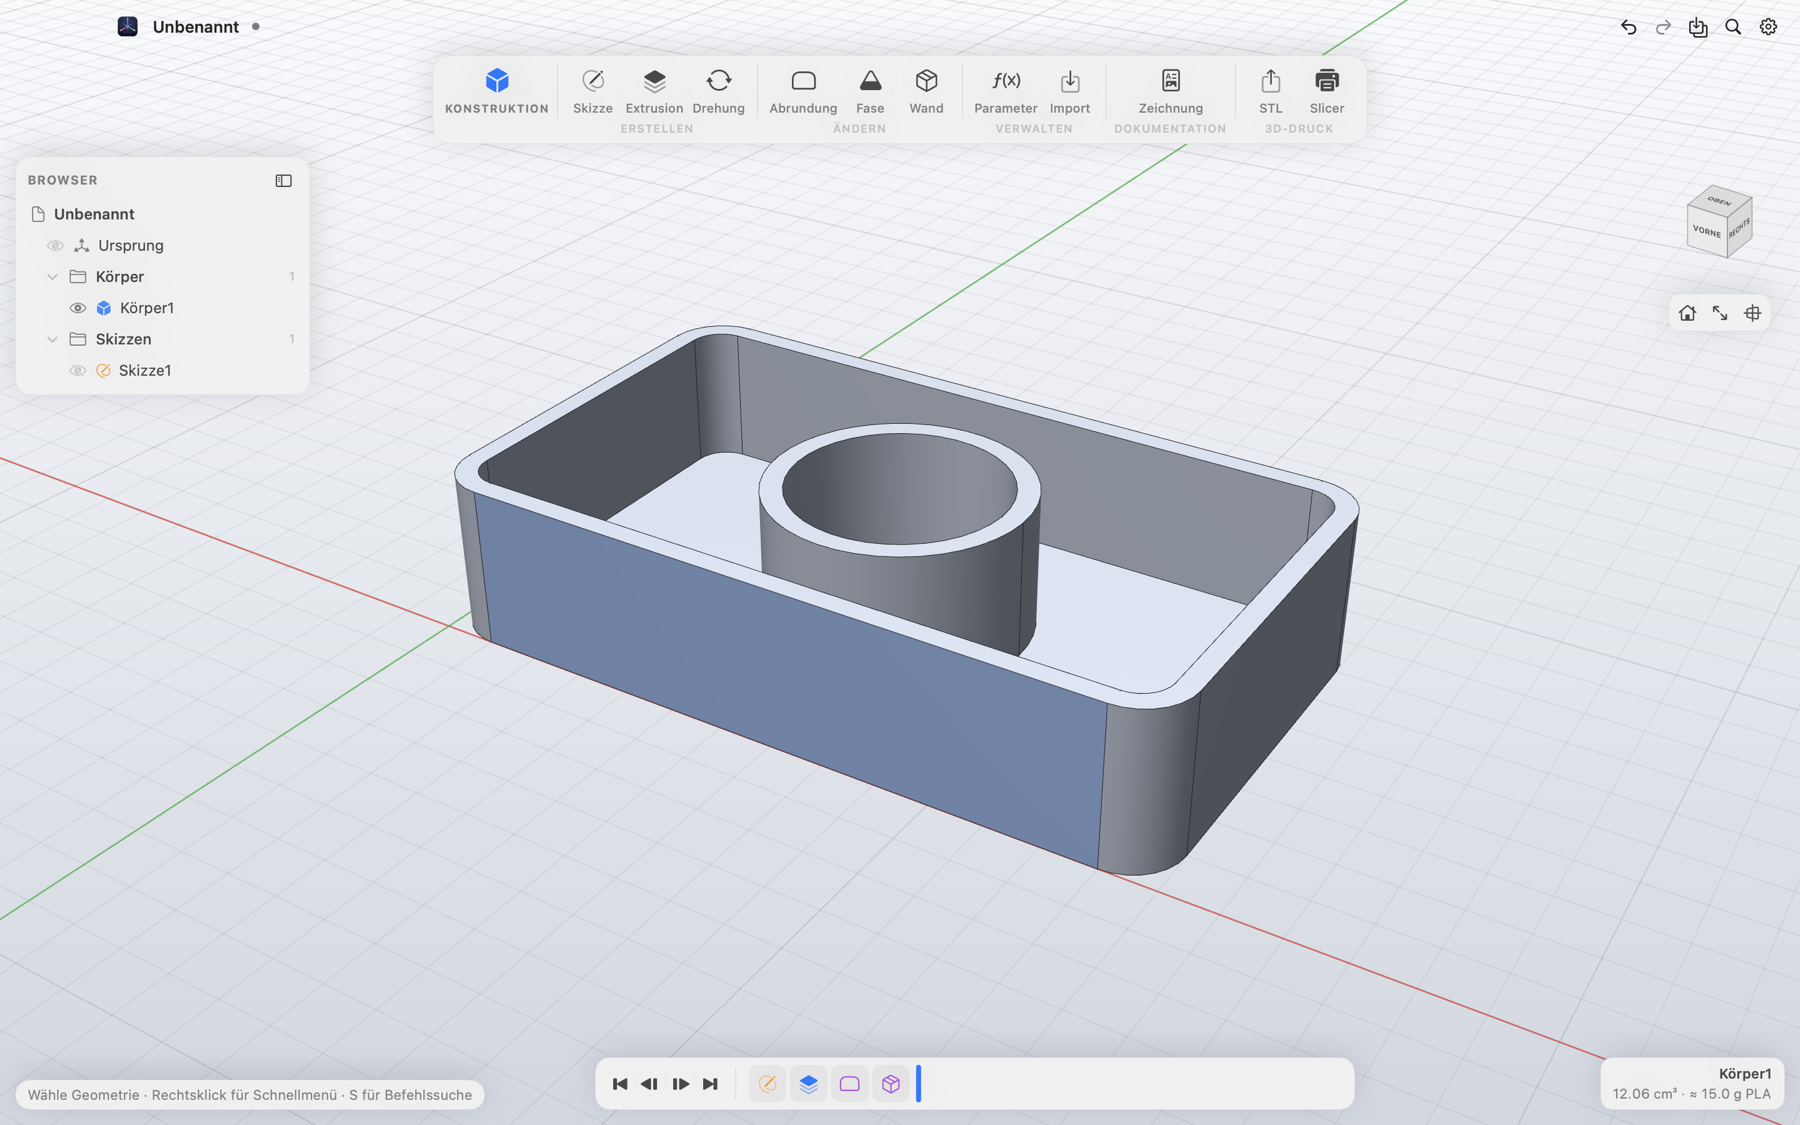
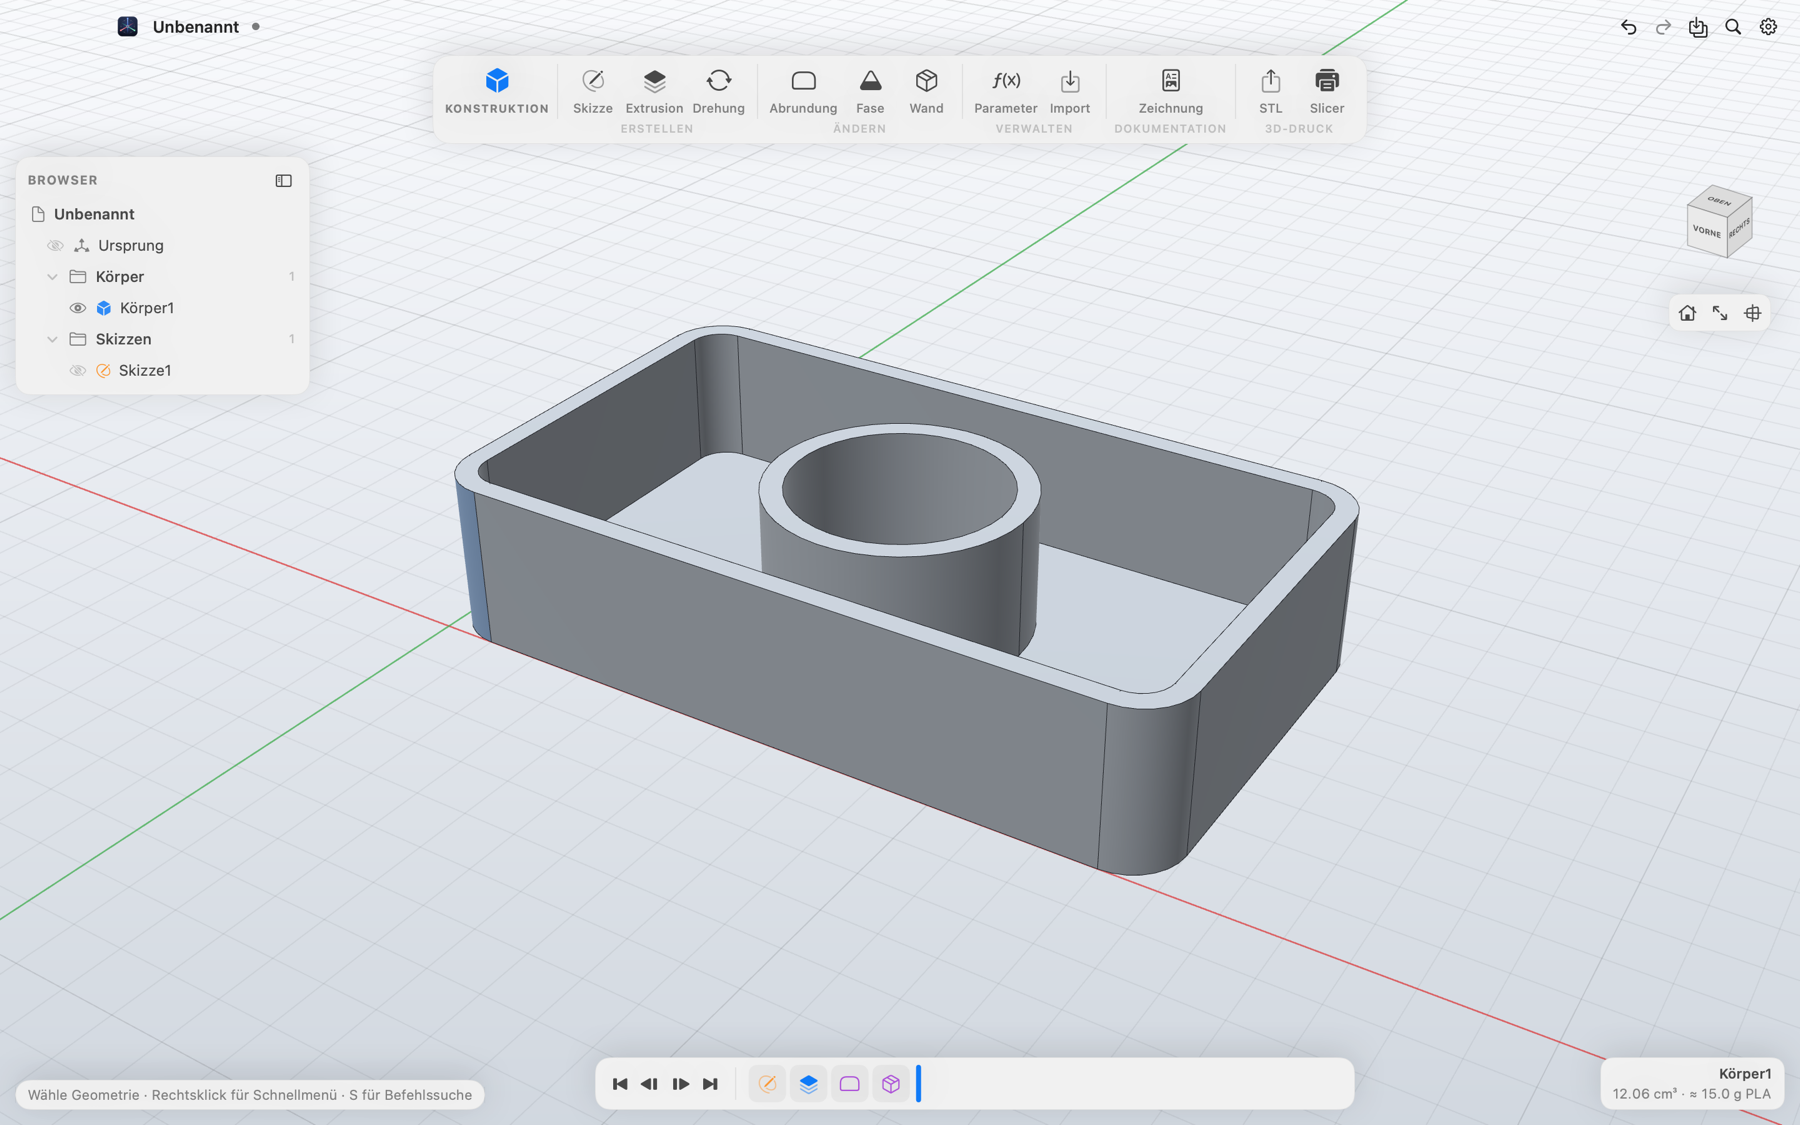
Website: English page, screenshots in both languages
- website/en/ with English copy and English UI screenshots
  (website/assets/en), language links and hreflang alternates
- screenshots.sh renders the demo runs in German and English

Changed region(s): [[0.2489, 0.4356, 0.6222, 0.7778], [0.2489, 0.0622, 0.28, 0.0933]]

diff --git a/website/en/index.html b/website/en/index.html
@@ -1,0 +1,115 @@
+<!doctype html>
+<html lang="en">
+<head>
+  <meta charset="utf-8">
+  <meta name="viewport" content="width=device-width, initial-scale=1">
+  <title>6axis – free CAD for the Mac</title>
+  <meta name="description" content="6axis is a free, open-source CAD app for the Mac: parametric design, STL for 3D printing and dimensioned workshop drawings with a parts list. Offline and open source.">
+  <meta property="og:title" content="6axis – free CAD for the Mac">
+  <meta property="og:description" content="From model to workshop drawing. Offline, no account, open source.">
+  <meta property="og:image" content="../assets/en/drawing.png">
+  <link rel="icon" href="../assets/logo.png">
+  <link rel="stylesheet" href="../style.css">
+  <link rel="alternate" hreflang="de" href="../">
+</head>
+<body>
+  <header class="bar">
+    <a class="brand" href="./"><img src="../assets/logo.png" alt="" width="32" height="32"><span>6axis</span></a>
+    <nav aria-label="Site navigation">
+      <a href="#features">Features</a>
+      <a href="#install">Install</a>
+      <a href="https://github.com/Melf11/6axis">GitHub</a>
+      <a href="../" hreflang="de" lang="de">Deutsch</a>
+    </nav>
+    <a class="button small" href="https://github.com/Melf11/6axis/releases/latest">Download</a>
+  </header>
+
+  <main>
+    <section class="hero">
+      <div class="hero-text">
+        <h1>From model to workshop drawing.</h1>
+        <p class="lead">6axis is a free CAD app for the Mac. You sketch, dimension and design parametrically – and get the dimensioned drawing, the parts list and the STL for your printer along with it. Offline, no account, open source.</p>
+        <div class="cta">
+          <a class="button" href="https://github.com/Melf11/6axis/releases/latest">Download 6axis</a>
+          <a class="link" href="https://github.com/Melf11/6axis">View source code</a>
+        </div>
+        <p class="fine">Free for Macs with Apple silicon (M1 or later) on macOS&nbsp;15 or later.</p>
+      </div>
+      <figure class="hero-drawing" aria-label="Technical drawing of a cabinet with dimensions, generated by 6axis">
+        <div id="drawing" class="drawing"><img src="../assets/hero.svg" alt="Three-view drawing of a cabinet with baseline dimensions"></div>
+        <figcaption>6axis generated this drawing from a 3D model – with baseline dimensions from the reference edge.</figcaption>
+      </figure>
+    </section>
+
+    <figure class="showcase">
+      <img src="../assets/en/model.png" alt="6axis with a hollowed box: toolbar, browser, timeline and ViewCube" loading="lazy">
+      <figcaption>Toolbar, browser, timeline and ViewCube – every step stays traceable and editable.</figcaption>
+    </figure>
+
+    <section id="features" class="pillars">
+      <article class="pillar x">
+        <div class="axis" aria-hidden="true"><i></i>X</div>
+        <h2>Design</h2>
+        <p>Sketches with constraints and dimensions you type while drawing. Extrude, revolve, fillet, chamfer and shell. Every step stays editable in the timeline, and parameters like <code>width / 2</code> drive the model.</p>
+        <img src="../assets/en/sketch.png" alt="Sketch with a dimensioned rectangle and a circle" loading="lazy">
+      </article>
+      <article class="pillar y">
+        <div class="axis" aria-hidden="true"><i></i>Y</div>
+        <h2>3D printing</h2>
+        <p>Export STL and STEP, or open the part in PrusaSlicer, Bambu Studio, OrcaSlicer or Cura with one click. Volume and weight are shown right away – for PLA, PETG, ABS and more.</p>
+        <img src="../assets/en/marking.png" alt="Radial menu on right-click over a part" loading="lazy">
+      </article>
+      <article class="pillar z">
+        <div class="axis" aria-hidden="true"><i></i>Z</div>
+        <h2>Workshop</h2>
+        <p>The technical drawing comes for free: three standard views, baseline dimensions, holes, radii and chamfers, section and detail views. Plus a parts list with cutting sizes, part drawings and 1:1 DXF for CNC and laser.</p>
+        <img src="../assets/en/parts.png" alt="Part drawing with side, bottom and shelf of a cabinet" loading="lazy">
+      </article>
+    </section>
+
+    <section id="install" class="install">
+      <h2>Installation</h2>
+      <p>6axis is built without a paid Apple developer account, so it isn’t notarized by Apple. macOS asks once on first launch.</p>
+      <ol>
+        <li><strong>Download</strong> – the file <em>6axis-….dmg</em> from the <a href="https://github.com/Melf11/6axis/releases/latest">latest release</a>.</li>
+        <li><strong>Install</strong> – open the DMG and drag 6axis to “Applications”.</li>
+        <li><strong>Open</strong> – macOS reports that 6axis can’t be verified. Click <em>Done</em>.</li>
+        <li><strong>Allow</strong> – in <em>System Settings → Privacy &amp; Security</em>, click <em>Open Anyway</em> at the bottom and confirm. From then on 6axis opens normally.</li>
+      </ol>
+      <p class="terminal">In Terminal, the last step works like this too:<br><code>xattr -dr com.apple.quarantine /Applications/6axis.app</code></p>
+    </section>
+
+    <section class="open">
+      <h2>Free and open</h2>
+      <p>6axis is released under the MIT licence: you may use, share and change it. The source code is on GitHub, and contributions are very welcome. Report bugs and ideas in the app under <em>Help → Report a bug</em> or directly as an <a href="https://github.com/Melf11/6axis/issues">issue</a>.</p>
+      <p>Geometry is computed by <a href="https://dev.opencascade.org">Open CASCADE Technology</a> and drawn with Metal – everything runs on your Mac, without internet and without an account.</p>
+    </section>
+  </main>
+
+  <footer>
+    <p>6axis is a free open-source project under the MIT licence.</p>
+  </footer>
+
+  <script>
+    // Inline the drawing so its lines can draw themselves once (skipped for reduced motion).
+    (async () => {
+      const box = document.getElementById('drawing');
+      try {
+        const res = await fetch('../assets/hero.svg');
+        if (!res.ok) return;
+        box.innerHTML = await res.text();
+        const svg = box.querySelector('svg');
+        svg.removeAttribute('width');
+        svg.removeAttribute('height');
+        svg.setAttribute('role', 'img');
+        svg.setAttribute('aria-label', 'Three-view drawing of a cabinet with baseline dimensions');
+        svg.querySelectorAll('polyline.visible').forEach((l, i) => {
+          l.setAttribute('pathLength', '1');
+          l.style.animationDelay = `${Math.min(i * 12, 900)}ms`;
+        });
+        requestAnimationFrame(() => box.classList.add('ready'));
+      } catch (_) { /* the <img> fallback stays */ }
+    })();
+  </script>
+</body>
+</html>

diff --git a/website/index.html b/website/index.html
@@ -10,6 +10,7 @@
   <meta property="og:image" content="assets/drawing.png">
   <link rel="icon" href="assets/logo.png">
   <link rel="stylesheet" href="style.css">
+  <link rel="alternate" hreflang="en" href="en/">
 </head>
 <body>
   <header class="bar">
@@ -18,6 +19,7 @@
       <a href="#funktionen">Funktionen</a>
       <a href="#installation">Installation</a>
       <a href="https://github.com/Melf11/6axis">GitHub</a>
+      <a href="en/" hreflang="en" lang="en">English</a>
     </nav>
     <a class="button small" href="https://github.com/Melf11/6axis/releases/latest">Herunterladen</a>
   </header>

diff --git a/docs/roadmap.md b/docs/roadmap.md
@@ -82,7 +82,7 @@ Inhalt:
 - [x] **Parameter verschieben Geometrie zuverlässig:** Profile merken sich ihre Lage relativ zu den Skizzenpunkten, Kanten und Flächen von Abrundung/Fase/Wandstärke bleiben bei gleicher Topologie über ihren Index erhalten. Ändern von z. B. Korpusbreite oder -höhe baut fehlerfrei neu auf; ältere Dateien funktionieren weiter. Alle Beispiele sind vollständig parametrisch.
 - [x] **Neuberechnung im Hintergrund:** Neuaufbau auf einer eigenen Queue; ist er nach 80 ms fertig, wird er sofort übernommen (Vorschau beim Ziehen bleibt direkt), sonst bleibt die Oberfläche bedienbar und zeigt „Berechne Modell …“; veraltete Berechnungen werden übersprungen. Viele Werkzeugkörper (z. B. 400 Bohrungen) werden in einer Operation vereinigt statt nacheinander (13 s → 6 s im Debug-Build, ~2 s im Release-Build)
 - [x] **Englisch:** alle ~530 Texte (Oberfläche, Meldungen, Fehlermeldungen aus Kern und OpenCASCADE-Brücke, technische Zeichnung, Beispiele) im String Catalog `Resources/Localizable.xcstrings`; die Sprache folgt dem System (pro App einstellbar unter Systemeinstellungen → Allgemein → Sprache & Region). `scripts/update-strings.sh` sammelt neue Texte über den Swift-Compiler, das CI bricht bei fehlenden Übersetzungen ab
-- [ ] Produktseite zweisprachig
+- [x] Produktseite zweisprachig (`website/en/`, Screenshots mit englischer Oberfläche über `scripts/screenshots.sh`)
 - [x] **Dateiformat-Versionierung:** Format 2 (1.0); ältere Dateien werden schrittweise migriert, Dateien aus neueren Versionen mit klarer Meldung abgelehnt, fehlende Felder sind erlaubt, verständliche Fehlermeldungen bei beschädigten Dateien. Test-Sammlung `Tests/SixAxisCoreTests/Fixtures` mit den Beispielen aus 0.9.0 – bei jedem Release kommen die Beispiele dazu
 - [ ] **Rückmeldungen der Tester** aus 0.9 einarbeiten (Bedienung von Zeichnungsfenster, Radialmenü, Navigation, DXF in CAM-/Lasersoftware)
 - [ ] **README** aktualisieren (Funktionsliste, Screenshots, Installation)
